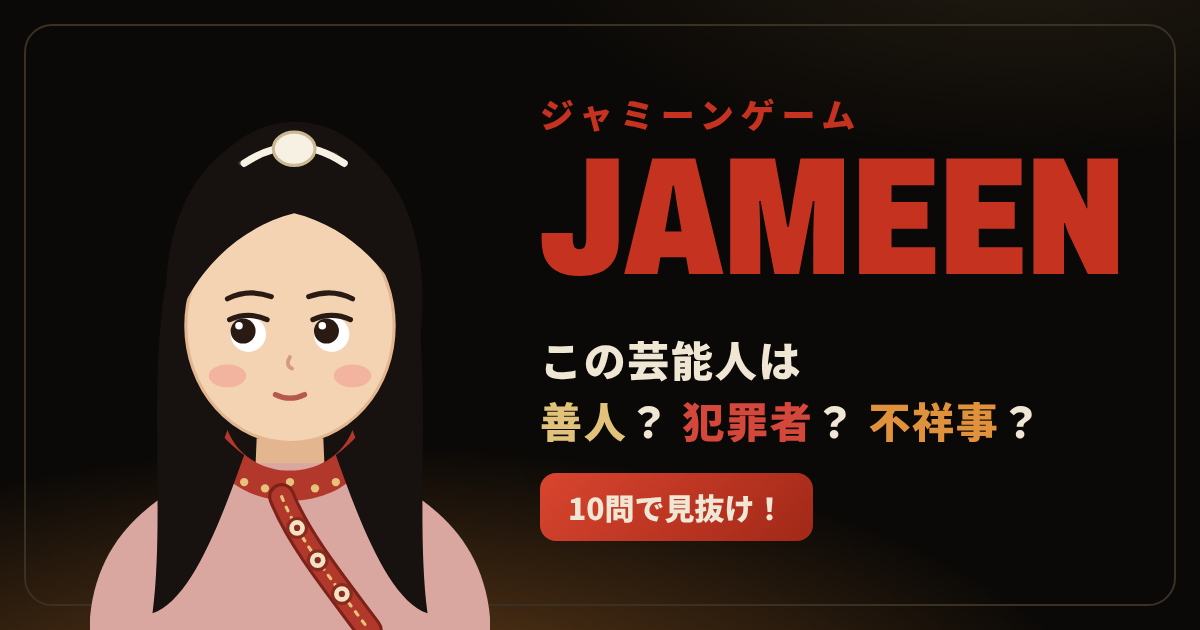
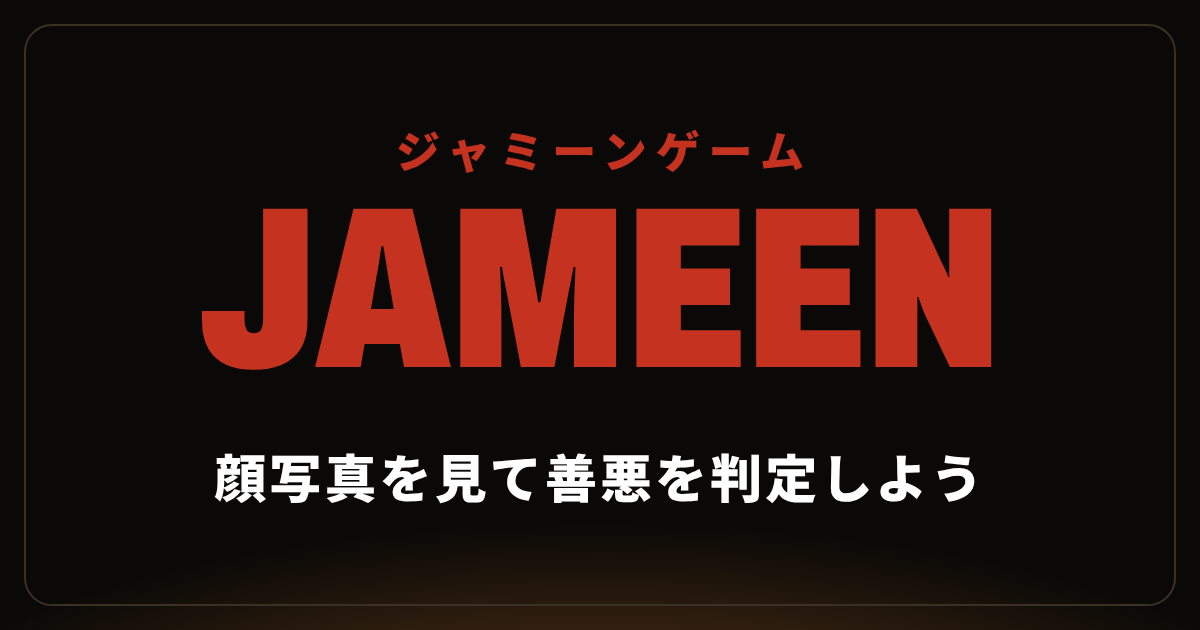
OGP 画像をロゴとキャッチコピーだけのデザインに変更する
ジャミーンのイラストを外し、「ジャミーンゲーム JAMEEN」を赤、「顔写真を見て善悪を判定しよう」を白で中央に配置する

Claude-Session: https://claude.ai/code/session_01EDPBkQeasMmatWCmrvLnqq

Changed region(s): [[0.0, 0.1508, 0.9558, 1.0], [0.185, 0.2111, 0.3083, 0.2714]]

diff --git a/apps/web/src/shared/seo.ts b/apps/web/src/shared/seo.ts
@@ -46,7 +46,7 @@ export function seo({
       { property: 'og:image', content: image },
       { property: 'og:image:width', content: '1200' },
       { property: 'og:image:height', content: '630' },
-      { property: 'og:image:alt', content: `${SITE_NAME} - 善悪を見抜け！` },
+      { property: 'og:image:alt', content: `${SITE_NAME} JAMEEN - 顔写真を見て善悪を判定しよう` },
       { name: 'twitter:card', content: 'summary_large_image' },
       { name: 'twitter:title', content: fullTitle },
       { name: 'twitter:description', content: description },

diff --git a/README.md b/README.md
@@ -74,7 +74,7 @@ bun run dev                # http://localhost:3000（使用中なら次のポー
   URL はリクエストのオリジンから作るので、独自ドメインでも workers.dev でもそのまま動く
 - 検索結果に出すのはトップとクイズのページだけ（`/sitemap.xml` に載る）。ランキングと `/celebrities` は `noindex`、
   `/images/*` の芸能人の写真は `X-Robots-Tag: noindex` で画像検索に載せない
-- OGP 画像は `apps/web/public/og.png`（1200×630）。結果画面のシェアボタンは `apps/web/src/components/ShareButtons.tsx`
+- OGP 画像は `apps/web/public/og.png`（1200×630。ロゴと「顔写真を見て善悪を判定しよう」）。結果画面のシェアボタンは `apps/web/src/components/ShareButtons.tsx`
 
 ## 設計メモ
 
